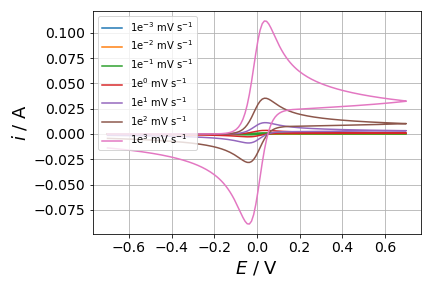
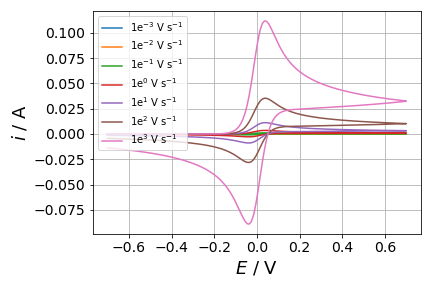
Changed units in CV plot

Changed region(s): [[0.331, 0.0625, 0.4815, 0.5312]]

diff --git a/Validation/Randles-Sevcik.py b/Validation/Randles-Sevcik.py
@@ -65,7 +65,7 @@ iP_RS = 0.4463*F*A*CRb*np.sqrt(F*sr*DR/(R*T))
 
 fig1 = plt.figure(1)
 lines = plt.plot(E, i)
-plt.legend(iter(lines), ("1e$^{-3}$ mV s$^{-1}$", "1e$^{-2}$ mV s$^{-1}$", "1e$^{-1}$ mV s$^{-1}$", "1e$^{0}$ mV s$^{-1}$", "1e$^{1}$ mV s$^{-1}$", "1e$^{2}$ mV s$^{-1}$", "1e$^{3}$ mV s$^{-1}$"))
+plt.legend(iter(lines), ("1e$^{-3}$ V s$^{-1}$", "1e$^{-2}$ V s$^{-1}$", "1e$^{-1}$ V s$^{-1}$", "1e$^{0}$ V s$^{-1}$", "1e$^{1}$ V s$^{-1}$", "1e$^{2}$ V s$^{-1}$", "1e$^{3}$ V s$^{-1}$"))
 plt.xlabel("$E$ / V", fontsize = 18)
 plt.ylabel("$i$ / A", fontsize = 18)
 plt.xticks(fontsize = 14)
